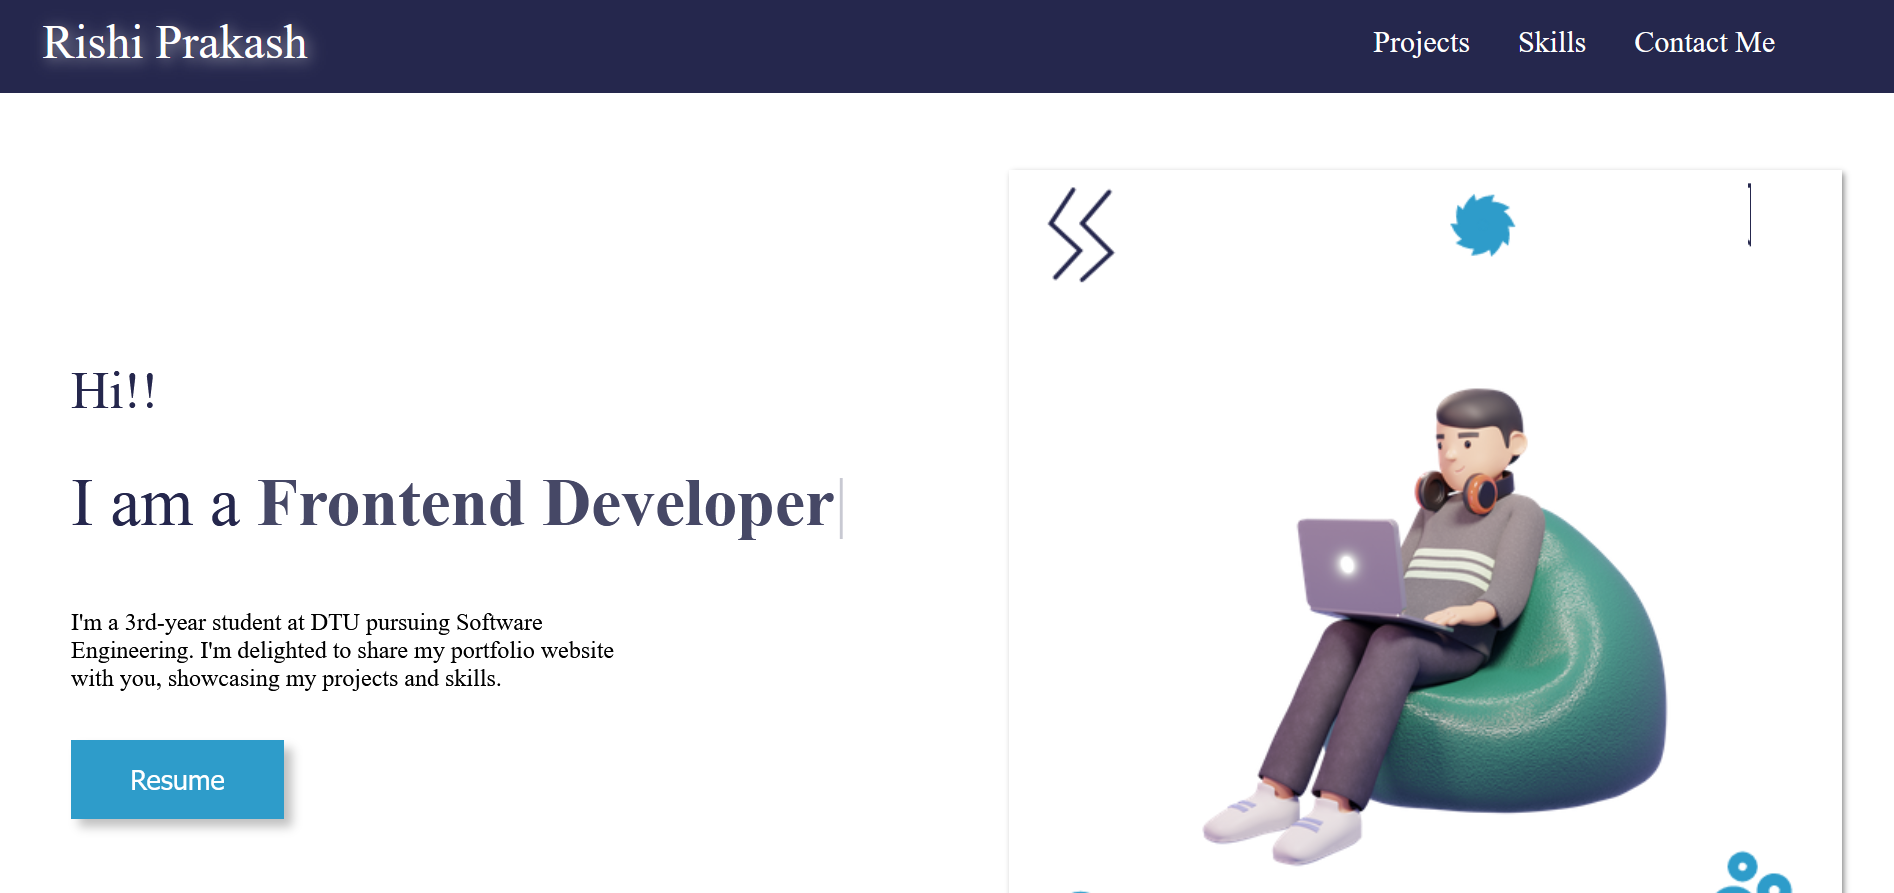
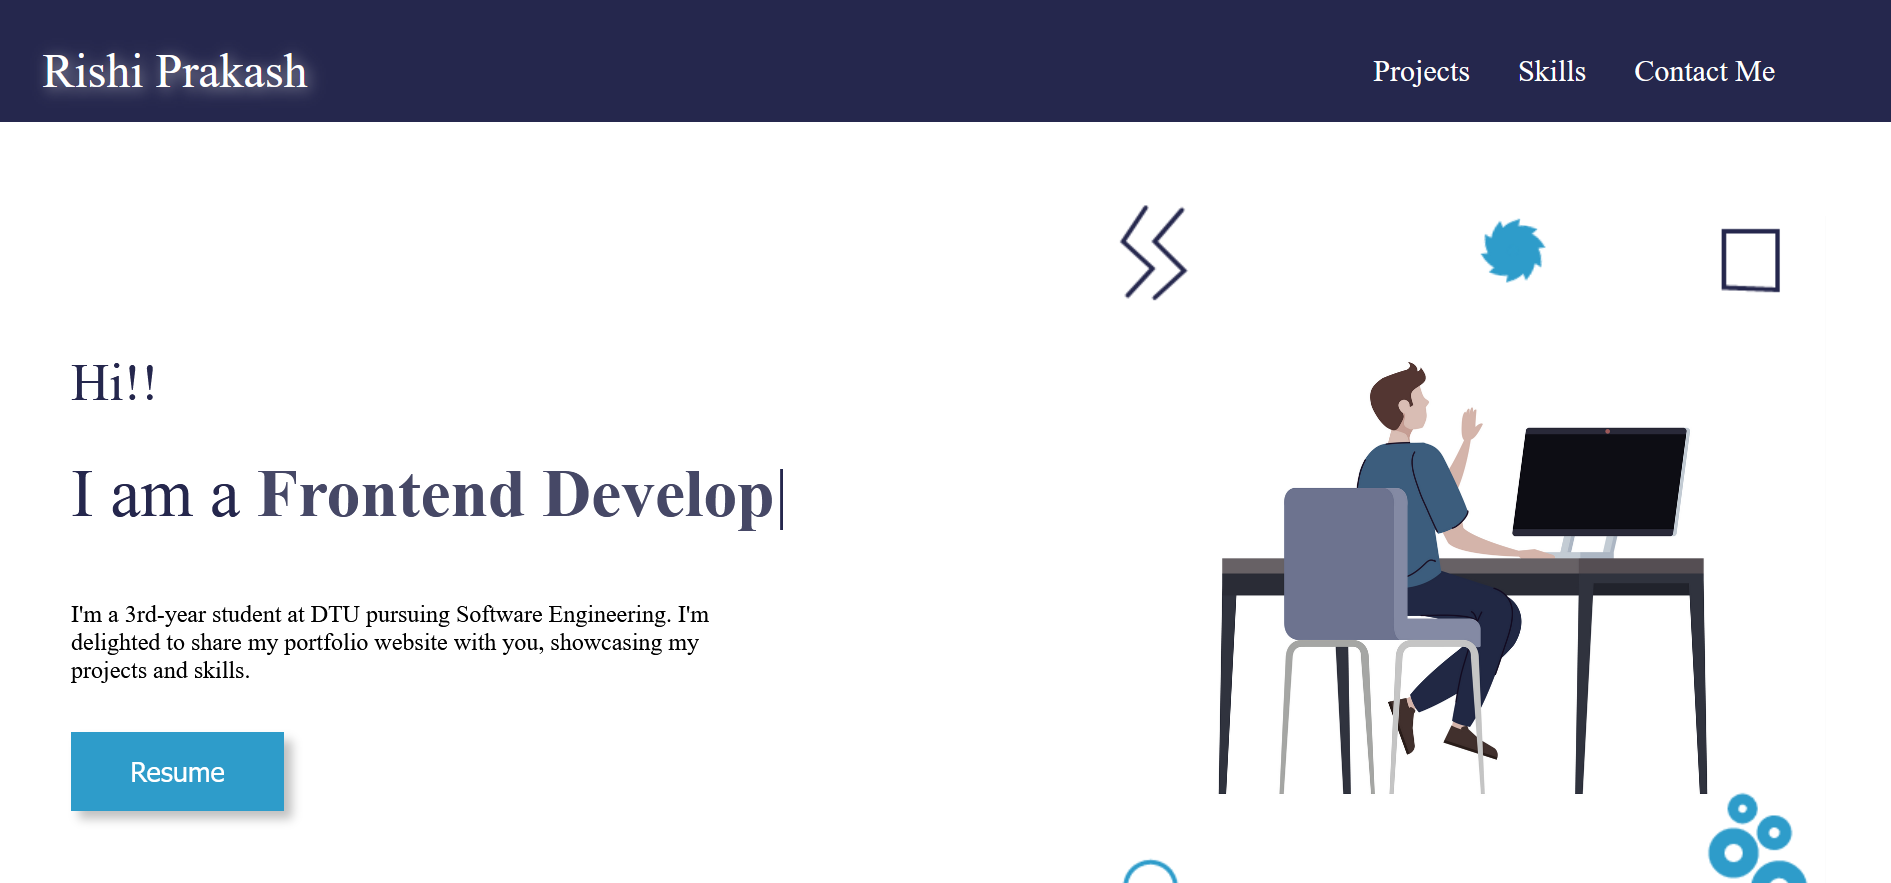
added links

diff --git a/index.html b/index.html
@@ -58,7 +58,7 @@
                         <img src="userAsset/spiral.png" alt="">
                     </div>
                     <div class="user-image">
-                        <img src="https://cdn3d.iconscout.com/3d/premium/thumb/man-working-on-laptop-5142786-4308423.png" alt="">
+                        <img src="https://static.vecteezy.com/system/resources/previews/001/883/407/original/young-man-using-desktop-computer-sitting-in-chair-with-desk-free-vector.jpg" alt="" height="400px">
                     </div>
                 </div>
             </div>
@@ -89,7 +89,7 @@
                             <a href="https://github.com/Rishi-269/Razorpay-clone">
                                 <i title="GitHubLink" class="fa-brands fa-github icon"></i>
                             </a>
-                            <a href="">
+                            <a href="https://rishi-269.github.io/Razorpay-clone/">
                                 <i title="Live Link" class="fa-solid fa-link icon"></i>
                             </a>
                         </div>
@@ -115,7 +115,7 @@
                             <a href="https://github.com/Rishi-269/MyPortfolio">
                                 <i title="GitHubLink" class="fa-brands fa-github icon"></i>
                             </a>
-                            <a href="">
+                            <a href="https://rishi-269.github.io/MyPortfolio">
                                 <i title="Live Link" class="fa-solid fa-link icon"></i>
                             </a>
                         </div>

diff --git a/style.css b/style.css
@@ -85,7 +85,7 @@ a{
     color: var(--color3);
     position: absolute;
     
-    bottom: -14%;
+    bottom: -15%;
     left: 0%;
     font-weight: bold;
     transition: all 3s;
@@ -283,12 +283,18 @@ a{
     animation-duration: 2s;
     animation-iteration-count: infinite;
     animation-timing-function: linear;
-    animation-direction: alternate;
+    animation-direction: normal;
 }
 
 @keyframes spiralMove {
+    50%{
+        transform: translate(5px,10px);
+        transform: rotateZ(-90deg);
+    }
+
     100%{
-        transform: translate(2px,3px) rotateZ(180deg);
+        transform: translate(0px,0px);
+        transform: rotateZ(-180deg);
     }
 }
 
@@ -501,6 +507,7 @@ a{
 }
 
 .skills-logo{
+    height: 100px;
     width:90px;
     transition: scale 0.5s;
 }
